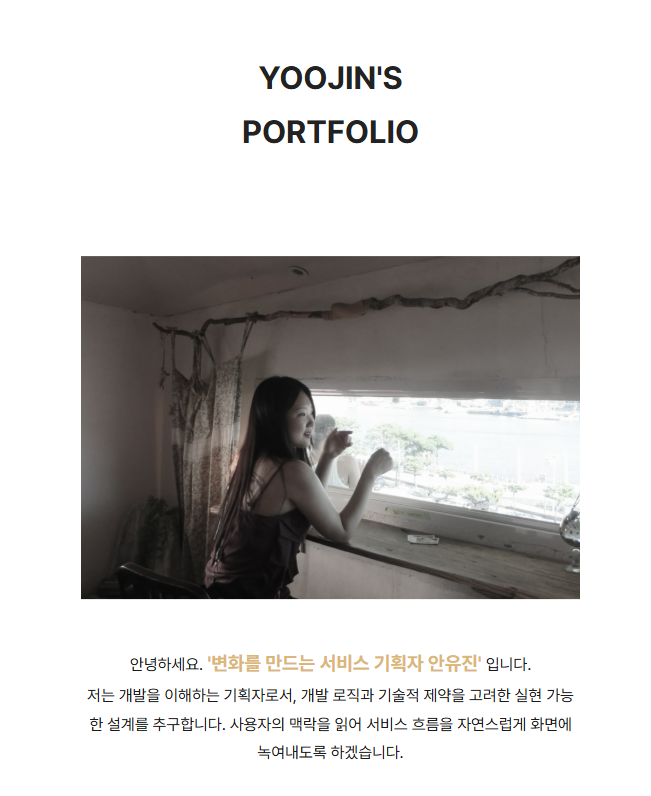
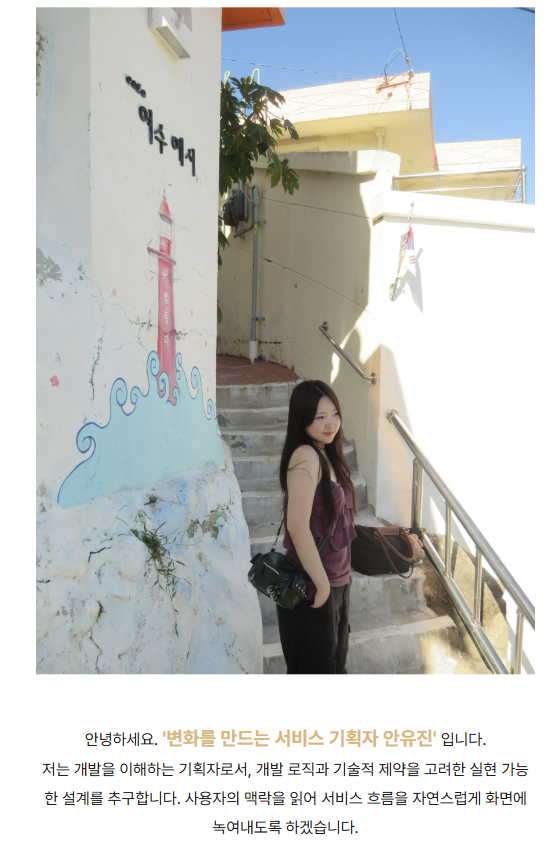
웹페이지 내용 수정

diff --git a/index.html b/index.html
@@ -27,11 +27,11 @@
   <section id="hero">
     <div class="hero-wrapper">
       <div class="hero-content container">
-        <h1>YOOJIN'S<br> PORTFOLIO</h1>
+        <h1><br>YOOJIN'S<br> PORTFOLIO</h1>
         
         <div class="hero-flex">
           <div class="profile-image">
-            <img src="images/4.jpg" style="margin-top:80px;" data-aos="fade-right" data-aos-duration="1000" alt="안유진 프로필 사진" />
+            <img src="images/IMG_4404.jpeg" style="margin-top:80px;" data-aos="fade-right" data-aos-duration="1000" alt="안유진 프로필 사진" />
           </div>
 
           <div class="hero-text">

diff --git a/webPo.css b/webPo.css
@@ -585,6 +585,7 @@ footer {
   max-width: 500px;
   font-size: 1.2rem;
   line-height: 1.8;
+  margin-bottom: 250px;
 }
 
 .profile-image img {
